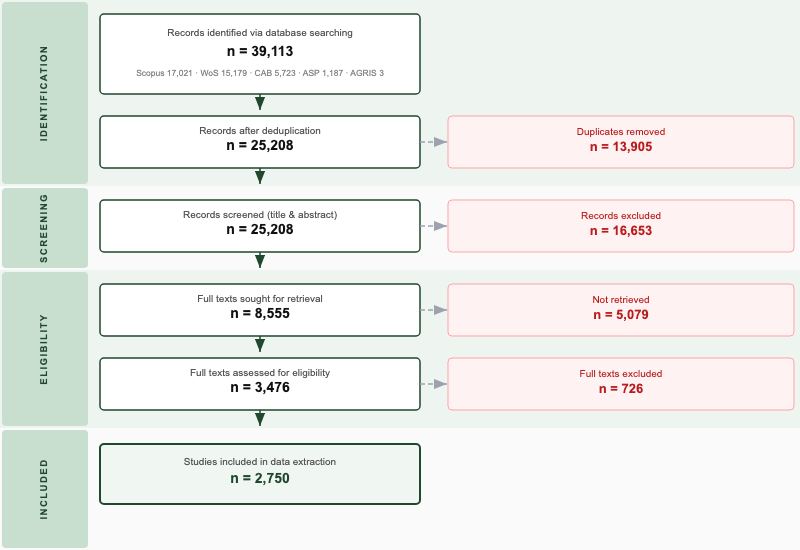
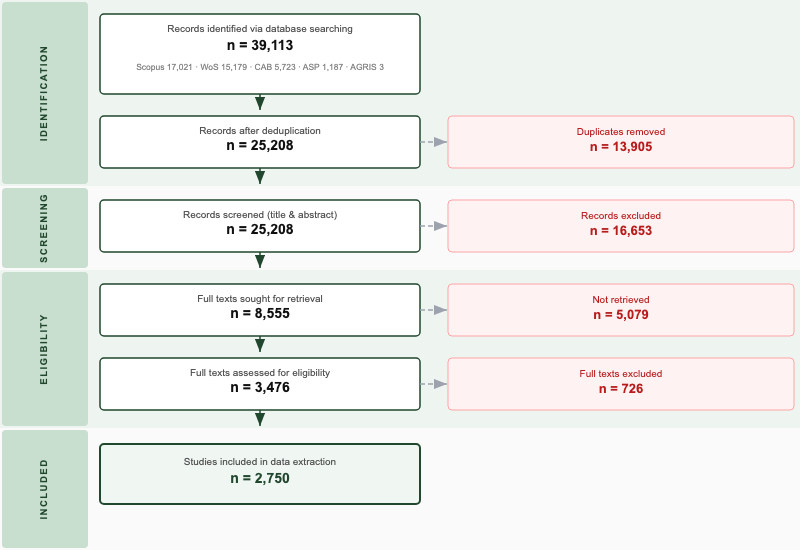
Add percentages to Sankey and PRISMA diagrams; unify Sankey DB pool
- All Sankey nodes now show "% of source bucket" in label text
- All PRISMA boxes/exclusions now show percentage context below counts
- Sankey redesigned so all 5 databases feed into a single shared dedup
  pool (instead of parallel Scopus / other-DB tracks)
- Regenerated roses_flow.json, roses_flow.png, and prisma_flow.png

Changed region(s): [[0.1562, 0.0309, 0.4688, 0.1545]]

diff --git a/frontend/src/components/PrismaFlow.tsx b/frontend/src/components/PrismaFlow.tsx
@@ -43,48 +43,60 @@ function Arrowhead({ id, color }: { id: string; color: string }) {
 }
 
 function CenterBox({
-  y, h = BH, label, n, sub, highlight = false,
+  y, h = BH, label, n, pct, sub, highlight = false,
 }: {
-  y: number; h?: number; label: string; n: string; sub?: string; highlight?: boolean;
+  y: number; h?: number; label: string; n: string; pct?: string; sub?: string; highlight?: boolean;
 }) {
+  const hasSub  = !!sub;
+  const hasPct  = !!pct && !hasSub;
+  const yLabel  = y + h * (hasSub ? 0.22 : hasPct ? 0.26 : 0.35);
+  const yN      = y + h * (hasSub ? 0.45 : hasPct ? 0.52 : 0.65);
+  const yExtra  = y + h * (hasSub ? 0.70 : 0.78);
   return (
     <g>
       <rect x={CX} y={y} width={CW} height={h} rx={5}
         fill={highlight ? '#f0f7f2' : BOX_BG}
         stroke={GREEN} strokeWidth={highlight ? 2 : 1.5}
       />
-      <text x={CM} y={y + (sub ? h * 0.28 : h * 0.35)} textAnchor="middle"
+      <text x={CM} y={yLabel} textAnchor="middle"
         fontSize={10} fill="#555" fontFamily="Arial, sans-serif">
         {label}
       </text>
-      <text x={CM} y={y + (sub ? h * 0.52 : h * 0.65)} textAnchor="middle"
+      <text x={CM} y={yN} textAnchor="middle"
         fontSize={14} fontWeight="700" fill={highlight ? GREEN : '#111'}
         fontFamily="Arial, sans-serif">
         {n}
       </text>
-      {sub && (
-        <text x={CM} y={y + h * 0.78} textAnchor="middle"
-          fontSize={8.5} fill="#888" fontFamily="Arial, sans-serif">
-          {sub}
+      {(hasPct || hasSub) && (
+        <text x={CM} y={yExtra} textAnchor="middle"
+          fontSize={9} fill={highlight ? '#4a8c62' : '#888'} fontFamily="Arial, sans-serif">
+          {pct ?? sub}
         </text>
       )}
     </g>
   );
 }
 
-function ExclusionBox({ y, label, n }: { y: number; label: string; n: string }) {
+function ExclusionBox({ y, label, n, pct }: { y: number; label: string; n: string; pct?: string }) {
+  const mx = EX + EW / 2;
   return (
     <g>
       <rect x={EX} y={y} width={EW} height={BH} rx={4}
         fill={EXC_BG} stroke={EXC_BDR} strokeWidth={1} />
-      <text x={EX + EW / 2} y={y + BH * 0.36} textAnchor="middle"
+      <text x={mx} y={y + BH * (pct ? 0.26 : 0.36)} textAnchor="middle"
         fontSize={10} fill={EXC_TEXT} fontFamily="Arial, sans-serif">
         {label}
       </text>
-      <text x={EX + EW / 2} y={y + BH * 0.68} textAnchor="middle"
+      <text x={mx} y={y + BH * (pct ? 0.54 : 0.68)} textAnchor="middle"
         fontSize={13} fontWeight="700" fill={EXC_TEXT} fontFamily="Arial, sans-serif">
         {n}
       </text>
+      {pct && (
+        <text x={mx} y={y + BH * 0.82} textAnchor="middle"
+          fontSize={9} fill="#e57373" fontFamily="Arial, sans-serif">
+          {pct}
+        </text>
+      )}
     </g>
   );
 }
@@ -160,8 +172,8 @@ export default function PrismaFlow({ className = '' }: { className?: string }) {
       <DownArrow y={Y1 + BH1} />
 
       {/* Box 2 — After deduplication */}
-      <CenterBox y={Y2} label="Records after deduplication" n="n = 25,208" />
-      <ExclusionBox y={Y2} label="Duplicates removed" n="n = 13,905" />
+      <CenterBox y={Y2} label="Records after deduplication" n="n = 25,208" pct="64% of all identified" />
+      <ExclusionBox y={Y2} label="Duplicates removed" n="n = 13,905" pct="36% of all identified" />
       <RightArrow sourceY={Y2} />
 
       {/* Arrow 2 → 3 */}
@@ -169,23 +181,23 @@ export default function PrismaFlow({ className = '' }: { className?: string }) {
 
       {/* Box 3 — Screened */}
       <CenterBox y={Y3} label="Records screened (title & abstract)" n="n = 25,208" />
-      <ExclusionBox y={Y3} label="Records excluded" n="n = 16,653" />
+      <ExclusionBox y={Y3} label="Records excluded" n="n = 16,653" pct="66% of screened" />
       <RightArrow sourceY={Y3} />
 
       {/* Arrow 3 → 4 */}
       <DownArrow y={Y3 + BH} />
 
       {/* Box 4 — Full texts sought */}
-      <CenterBox y={Y4} label="Full texts sought for retrieval" n="n = 8,555" />
-      <ExclusionBox y={Y4} label="Not retrieved" n="n = 5,079" />
+      <CenterBox y={Y4} label="Full texts sought for retrieval" n="n = 8,555" pct="34% of screened" />
+      <ExclusionBox y={Y4} label="Not retrieved" n="n = 5,079" pct="59% of full texts sought" />
       <RightArrow sourceY={Y4} />
 
       {/* Arrow 4 → 5 */}
       <DownArrow y={Y4 + BH} />
 
       {/* Box 5 — Full texts assessed */}
-      <CenterBox y={Y5} label="Full texts assessed for eligibility" n="n = 3,476" />
-      <ExclusionBox y={Y5} label="Full texts excluded" n="n = 726" />
+      <CenterBox y={Y5} label="Full texts assessed for eligibility" n="n = 3,476" pct="41% of full texts sought" />
+      <ExclusionBox y={Y5} label="Full texts excluded" n="n = 726" pct="21% of assessed" />
       <RightArrow sourceY={Y5} />
 
       {/* Arrow 5 → 6 */}
@@ -194,7 +206,7 @@ export default function PrismaFlow({ className = '' }: { className?: string }) {
       {/* Box 6 — Included */}
       <CenterBox y={Y6} h={BH + 8}
         label="Studies included in data extraction"
-        n="n = 2,750" highlight
+        n="n = 2,750" pct="79% of assessed" highlight
       />
     </svg>
   );

diff --git a/scripts/step16_map_visualise.py b/scripts/step16_map_visualise.py
@@ -1710,6 +1710,8 @@ def _roses_interactive(out_root: Path, out_dir: Path) -> None:
     n_abs_inc        = n_sc_include + n_other_include          # 8,555
     n_abs_exc        = n_sc_exclude + n_other_exclude + n_other_manual  # 16,653
     n_ft_not_ret_all = max(0, n_abs_inc - n_ft_retrieved_all)  # 5,079
+    n_total_id       = n_scopus + sum(_db_imp[db] for db in _dbs)  # 39,113
+    n_screened       = n_abs_inc + n_abs_exc                   # 25,208
 
     # ── Nodes ────────────────────────────────────────────────────────────────
     # All databases feed into a shared dedup pool, then a single pipeline:
@@ -1737,18 +1739,18 @@ def _roses_interactive(out_root: Path, out_dir: Path) -> None:
     I_PEND  = N + 9
 
     labels = (
-        [f"Scopus<br>identified<br>n={n_scopus:,}"]
-        + [f"{_DB_SHORT.get(db, db)}<br>identified<br>n={_db_imp[db]:,}" for db in _dbs]
+        [f"Scopus<br>identified<br>n={n_scopus:,} ({_pct(n_scopus, n_total_id)})"]
+        + [f"{_DB_SHORT.get(db, db)}<br>identified<br>n={_db_imp[db]:,} ({_pct(_db_imp[db], n_total_id)})" for db in _dbs]
         + [
-            f"Duplicates removed<br>n={n_total_dup:,}",
-            f"Abstract screening<br>n={n_abs_inc + n_abs_exc:,}",
-            f"Abstract included<br>n={n_abs_inc:,} ({_pct(n_abs_inc, n_abs_inc + n_abs_exc)})",
-            f"Abstract excluded<br>n={n_abs_exc:,} ({_pct(n_abs_exc, n_abs_inc + n_abs_exc)})",
+            f"Duplicates removed<br>n={n_total_dup:,} ({_pct(n_total_dup, n_total_id)})",
+            f"Abstract screening<br>n={n_screened:,} ({_pct(n_screened, n_total_id)})",
+            f"Abstract included<br>n={n_abs_inc:,} ({_pct(n_abs_inc, n_screened)})",
+            f"Abstract excluded<br>n={n_abs_exc:,} ({_pct(n_abs_exc, n_screened)})",
             f"Full texts retrieved<br>n={n_ft_retrieved_all:,} ({_pct(n_ft_retrieved_all, n_abs_inc)})",
             f"Not retrievable<br>n={n_ft_not_ret_all:,} ({_pct(n_ft_not_ret_all, n_abs_inc)})",
             f"Included for coding<br>n={n_ft_include:,} ({_pct(n_ft_include, n_ft_retrieved_all)})",
             f"Full texts excluded<br>n={n_ft_exclude:,} ({_pct(n_ft_exclude, n_ft_retrieved_all)})",
-            f"Pending: FT screening<br>n={n_ft_pending_screen:,}",
+            f"Pending: FT screening<br>n={n_ft_pending_screen:,} ({_pct(n_ft_pending_screen, n_ft_retrieved_all)})",
         ]
     )
 

diff --git a/scripts/export_prisma_png.py b/scripts/export_prisma_png.py
@@ -49,27 +49,37 @@ def text(x, y, content, size=11, weight="normal", fill="#555", anchor="middle", 
     return f'<text x="{x}" y="{y}" text-anchor="{anchor}" font-size="{size}" font-weight="{weight}" fill="{fill}" font-family="{family}"{ls}>{content}</text>'
 
 
-def center_box(y, h, label, n, sub=None, highlight=False):
+def center_box(y, h, label, n, pct=None, sub=None, highlight=False):
     bg    = "#f0f7f2" if highlight else BOX_BG
     sw    = 2 if highlight else 1.5
     n_col = GREEN if highlight else "#111"
+    pct_col = "#4a8c62" if highlight else "#888"
     out   = [rect(CX, y, CW, h, fill=bg, stroke=GREEN, sw=sw)]
     if sub:
-        out.append(text(CM, y + h * 0.28, label, size=10))
+        out.append(text(CM, y + h * 0.22, label, size=10))
+        out.append(text(CM, y + h * 0.45, n, size=14, weight="700", fill=n_col))
+        out.append(text(CM, y + h * 0.70, sub, size=8.5, fill="#888"))
+    elif pct:
+        out.append(text(CM, y + h * 0.26, label, size=10))
         out.append(text(CM, y + h * 0.52, n, size=14, weight="700", fill=n_col))
-        out.append(text(CM, y + h * 0.78, sub, size=8.5, fill="#888"))
+        out.append(text(CM, y + h * 0.78, pct, size=9, fill=pct_col))
     else:
         out.append(text(CM, y + h * 0.35, label, size=10))
         out.append(text(CM, y + h * 0.65, n, size=14, weight="700", fill=n_col))
     return "\n".join(out)
 
 
-def exclusion_box(y, label, n):
-    return "\n".join([
-        rect(EX, y, EW, BH, fill=EXC_BG, stroke=EXC_BDR, sw=1),
-        text(EX + EW // 2, y + BH * 0.36, label, size=10, fill=EXC_TEXT),
-        text(EX + EW // 2, y + BH * 0.68, n, size=13, weight="700", fill=EXC_TEXT),
-    ])
+def exclusion_box(y, label, n, pct=None):
+    mx  = EX + EW // 2
+    out = [rect(EX, y, EW, BH, fill=EXC_BG, stroke=EXC_BDR, sw=1)]
+    if pct:
+        out.append(text(mx, y + BH * 0.26, label, size=10, fill=EXC_TEXT))
+        out.append(text(mx, y + BH * 0.54, n,     size=13, weight="700", fill=EXC_TEXT))
+        out.append(text(mx, y + BH * 0.82, pct,   size=9,  fill="#e57373"))
+    else:
+        out.append(text(mx, y + BH * 0.36, label, size=10, fill=EXC_TEXT))
+        out.append(text(mx, y + BH * 0.68, n,     size=13, weight="700", fill=EXC_TEXT))
+    return "\n".join(out)
 
 
 def phase_label(label, y1, y2):
